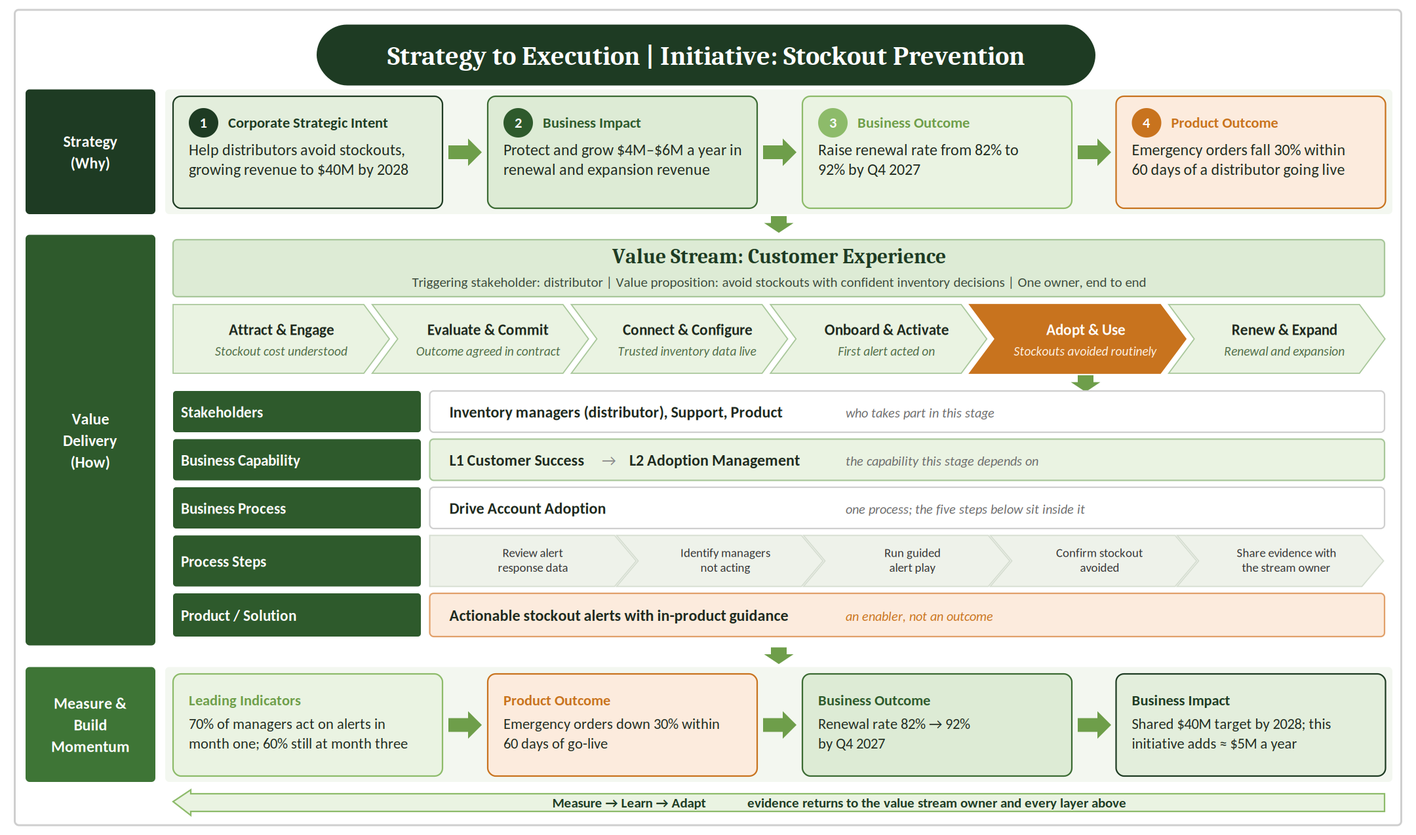
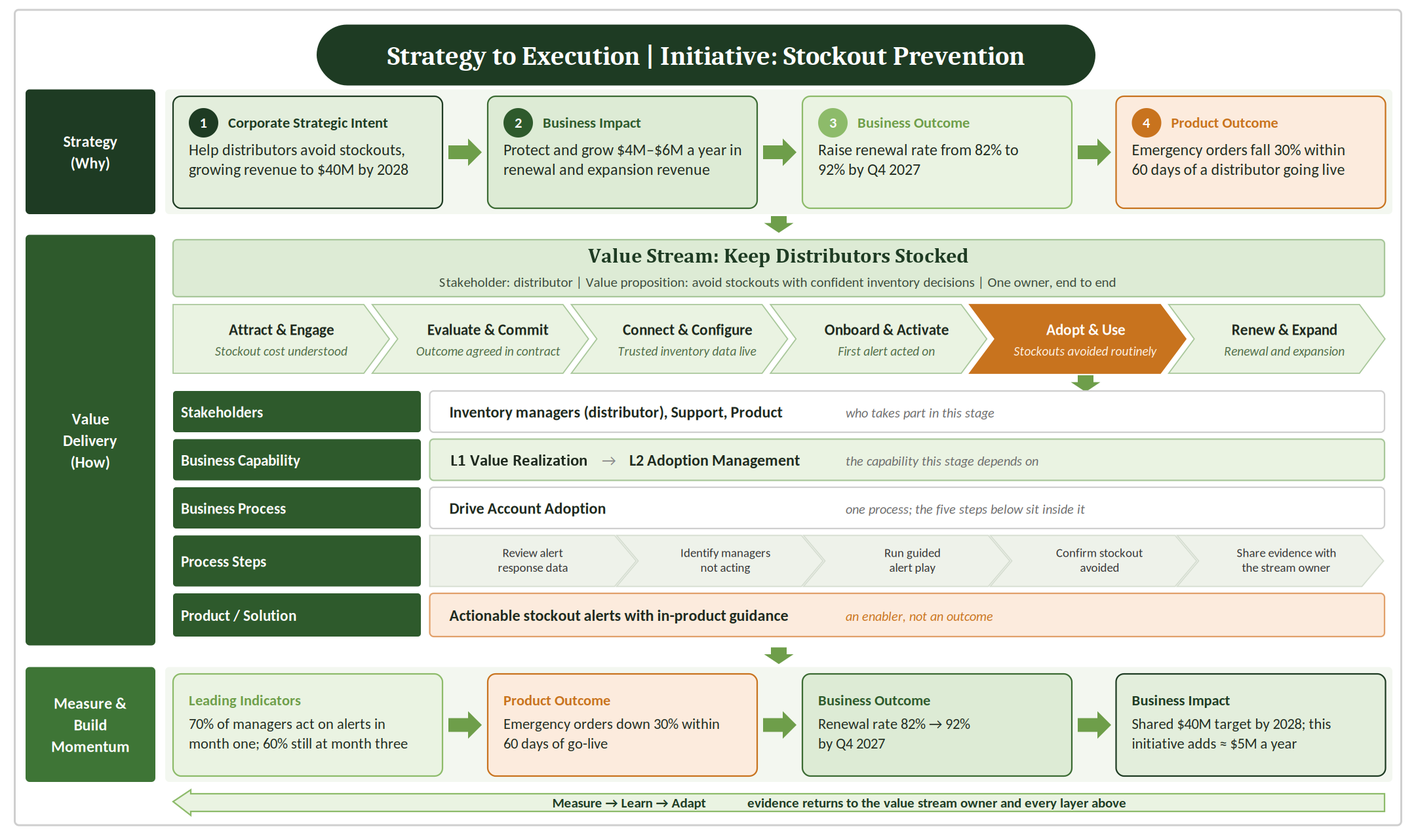
docs(iivcs): article 7's Experience signals, the stream rename, article 4 and 6 wording
Article 7: Experience (Feel) is now managers' stated trust in the alert
thresholds, asked at the monthly discovery visits (about one in four,
then seven in ten, against a starting band of 60%). The two behavioural
shares are kept as engagement signals read by AER. A governance
paragraph takes the redefined "acted on" back to the decision forum.
Template 7's worked example and the three-tests table follow.

Articles 4-7: the "Customer Experience" value stream is renamed "Keep
Distributors Stocked", in the text, article 4's LinkedIn copy and the
diagrams (the strategy-to-execution header in articles 4, 5 and 6; the
table subtitle in article 7).

Article 4: value stages and the business-architecture credit kept,
"value item" glossed, "functions" where departments were meant, Adoption
Management as the example capability, and the rejection condition split
from who decides, read by the end of Q1 2027. The diagram's band and
capability row follow. Article 6: nested ownership in one plain
sentence; the Team Topologies credit names stream-aligned teams.

Edits are silent, as published articles are corrected in place.

Changed region(s): [[0.2792, 0.2753, 0.8065, 0.3671], [0.3102, 0.5506, 0.4032, 0.5812]]

diff --git a/series/iivcs/04-one-continuous-value-stream/article.md b/series/iivcs/04-one-continuous-value-stream/article.md
@@ -21,13 +21,13 @@ If the leaks live between functions, better functions won't close them. Somethin
 
 ## What a value stream is
 
-In business architecture practice, a value stream is the end-to-end set of value-adding stages that creates an overall result for a stakeholder. It starts with a triggering stakeholder, the customer or other party whose need sets it in motion. Each stage adds an increment of value for that stakeholder, called a value item, and the value items build on one another until the stream delivers its value proposition.
+In business architecture practice, a value stream is the end-to-end set of value stages that creates an overall result for a stakeholder. It starts with the stakeholder whose need sets it in motion, the customer or another party. Each stage leaves that stakeholder measurably closer to the result, an increment business architects call a value item, and the value items build on one another until the stream delivers its value proposition.
 
 A value stream isn't a department, and it isn't a process. A department is defined by the work it does, and a process describes how internal work gets done. A value stream is defined by the value a stakeholder receives, and it draws on every capability that value depends on.
 
 A value stream also outlasts the initiatives that run through it. Initiatives come and go. The stream is the stable path they travel.
 
-The Insheights Integrated Value Creation System (IIVCS) adds two things to that definition. First, a return path: evidence of what the stakeholder actually experienced travels back along the stream, so it can change what happens next. The second is an owner. A stream that nobody owns can be mapped perfectly and still leak value at every handoff.
+The Insheights Integrated Value Creation System (IIVCS) asks two more things of it. First, a return path: evidence of what the stakeholder actually experienced travels back along the stream, so it can change what happens next. The second is an owner. A stream that nobody owns can be mapped perfectly and still leak value at every handoff.
 
 The difference sounds small. In practice, it changes the question every team asks. In a function-based model, the question is “Did we do our part?” In a value stream, the question is “Did the value reach the customer, and what’s stopping it?”
 
@@ -50,7 +50,7 @@ When renewals slipped, every function could show its own part had succeeded, and
 
 ## Stocklight, after
 
-Stocklight starts managing its Customer Experience value stream as one stream: the full path a distributor takes as its customer. The stream triggers when a distributor faces costly stockouts, and its value proposition is to avoid stockouts through confident inventory decisions. It runs through six value stages, each ending in a value item:
+Stocklight starts managing its Keep Distributors Stocked value stream as one stream: the full path a distributor takes as its customer. The stream triggers when a distributor faces costly stockouts, and its value proposition is to avoid stockouts through confident inventory decisions. It runs through six value stages, each ending in a value item:
 
 - **Attract & Engage**, ending when the cost of the distributor’s stockouts is understood
 - **Evaluate & Commit**, ending when the outcome is agreed in the contract
@@ -65,9 +65,9 @@ One leader owns the stream end to end. Stockout prevention becomes an initiative
 
 *Strategy sets the why, the value stream delivers the how, and measurement carries evidence back up to every layer.*
 
-The initiative focuses on Adopt & Use, the stage where the product outcome is realized and where the most value leaks. Inventory managers at the distributor take part, supported by Stocklight’s support and product teams. It depends on Stocklight’s customer success capability, specifically adoption management, and runs through one process: driving account adoption. The alerts themselves are the solution, an enabler of the outcome, not the outcome.
+The initiative focuses on Adopt & Use, the stage where the product outcome is realized and where the most value leaks. Inventory managers at the distributor take part, supported by Stocklight’s support and product teams. It depends on Stocklight’s value realization capability, specifically Adoption Management, and runs through one process: driving account adoption. The alerts themselves are the solution, an enabler of the outcome, not the outcome.
 
-People from product, sales, installation, and support all work in the stream. They still belong to their capabilities, which remain their home for expertise and standards. But they share the stream's measures: emergency orders falling, inventory managers acting on alerts, and distributors renewing.
+People from product, sales, installation, and support all work in the stream. They still belong to their functions, which remain their home for expertise and standards. But they share the stream's measures: emergency orders falling, inventory managers acting on alerts, and distributors renewing.
 
 Here’s how the stream closes each leak.
 
@@ -105,7 +105,7 @@ Stocklight’s 90-day onboarding spans two stages: Connect & Configure and Onboa
 
 *The leak: intent becomes misaligned or incomplete deliverables.*
 
-A value stream states its intent once as a chain of outcomes, and every capability works toward that chain instead of its own version. Deliverables are judged by what they contribute, not by whether they were completed.
+A value stream states its intent once as a chain of outcomes, and every function works toward that chain instead of its own version. Deliverables are judged by what they contribute, not by whether they were completed.
 
 At Stocklight, the forecasting module is no longer the goal. Emergency orders falling 30% is. Each layer explains the one below it: renewals rise because emergency orders fall, and emergency orders fall because inventory managers act on alerts. People question work that won’t move those numbers before it’s built, and they add missing work, like alerts, even though no one’s original plan included it.
 
@@ -125,7 +125,7 @@ Different industries, different eras, same principle: an outcome needs an owner,
 
 ## What ownership requires
 
-Naming an owner is easy. Ownership only works when it comes with authority across boundaries. An owner who can’t change priorities in the capabilities their outcome depends on has accountability without leverage. Often the function that feels the pain of a broken stream has the least authority to fix it, and that imbalance is exactly what ownership is meant to remove.
+Naming an owner is easy. Ownership only works when it comes with authority across boundaries. An owner who can’t change priorities in the functions their outcome depends on has accountability without leverage. Often the function that feels the pain of a broken stream has the least authority to fix it, and that imbalance is exactly what ownership is meant to remove.
 
 Ownership also changes how we handle failure. When one person owns an outcome, a miss becomes visible early, while it’s still a decision rather than a post-mortem. It’s much harder to call a failure an execution problem when the strategy and the execution have the same owner.
 
@@ -133,13 +133,13 @@ Ownership also changes how we handle failure. When one person owns an outcome, a
 
 State a value stream as clearly as a strategy. Here’s Stocklight’s:
 
-> *The **Customer Experience** value stream turns our intent to **help distributors avoid stockouts** into **fewer stockouts and confident inventory decisions** for **regional industrial distributors**, owned by **one accountable leader**, with **product, sales, installation, and support** contributing, measured by **emergency orders falling 30% within 60 days of go-live and renewal rate rising from 82% to 92% by Q4 2027**, and if **fewer than 70% of inventory managers act on our alerts in their first month**, **the stream owner** decides whether to persist, retune, re-resource, or stop.*
+> *The **Keep Distributors Stocked** value stream turns our intent to **help distributors avoid stockouts** into **fewer stockouts and confident inventory decisions** for **regional industrial distributors**, owned by **one accountable leader**, with **product, sales, installation, and support** contributing, measured by **emergency orders falling 30% within 60 days of go-live and renewal rate rising from 82% to 92% by Q4 2027**, and if **fewer than 70% of inventory managers act on our alerts in their first month, read by the end of Q1 2027**, **the stream owner** decides whether to persist, retune, re-resource, or stop.*
 
 **Template 4: the value stream statement.** And the template:
 
-> *The **[name]** value stream turns our intent to **[strategic intent]** into **[outcome]** for **[customers or stakeholders]**, owned by **[one accountable leader]**, with **[contributing capabilities]** contributing, measured by **[outcome measure and time frame]**, and if **[signal that we’re wrong, and by when]**, **[who decides]** decides whether to persist, retune, re-resource, or stop.*
+> *The **[name]** value stream turns our intent to **[strategic intent]** into **[outcome]** for **[customers or stakeholders]**, owned by **[one accountable leader]**, with **[contributing functions]** contributing, measured by **[outcome measure and time frame]**, and if **[signal that we’re wrong, and by when]**, **[who decides]** decides whether to persist, retune, re-resource, or stop.*
 
-The last clause is the stream’s rejection condition: the signal, named in advance, that the approach is wrong, and who decides what happens next.
+The last clause holds the stream’s rejection condition: the result, named in advance, that would show the approach is wrong, and the date by which it is read. It also names who decides what happens next.
 
 If you can’t name one owner, you’ve found your first problem.
 

diff --git a/series/iivcs/07-three-tests-of-real-value/article.md b/series/iivcs/07-three-tests-of-real-value/article.md
@@ -49,7 +49,7 @@ None of these shows up in the outcome’s measure. All three show up in the stak
 
 Stocklight, the illustrative company we’ve followed through this series, sells inventory visibility software to regional industrial distributors. Its strategy bets that inventory managers will act on alerts delivered inside the warehouse systems they already run, and it set a test with 10 distributors in Q1 2027 to find out.
 
-Three months into that test, the Customer Experience stream owner’s review looked good:
+Three months into that test, the Keep Distributors Stocked stream owner’s review looked good:
 
 > ***The bet:*** *78% of inventory managers acted on an alert in their first month, against a rejection condition of fewer than 70%*
 
@@ -57,17 +57,17 @@ Three months into that test, the Customer Experience stream owner’s review loo
 
 > ***Activation team:*** *time from signed contract to first alert acted on, down from 90 days to 41*
 
-The bet held, and every outcome moved in the right direction. The stream owner was ready to scale beyond the test.
+The bet held, and every outcome moved in the right direction. The stream owner was ready to recommend scaling beyond the test.
 
 Then the Adoption team ran its monthly discovery visits, and the inventory managers told a different story. Read against the three tests, every headline outcome came apart:
 
 → **Efficiency.** “Acted on” counted any acknowledgment of an alert. Inventory managers got 30 to 40 alerts a day, most for slow-moving items that weren’t at real risk. A typical manager spent more than an hour a day clearing them, and two distributors had assigned a second person just to keep up. Stocklight promised less work and delivered more.
 
-→ **Experience.** After a run of early false alarms, managers didn’t trust the thresholds, so most still checked their spreadsheet before placing an order. The share still acting on alerts in their third month was 54%, below the 60% target and falling. The value stream promised confident inventory decisions. Managers felt it was one more queue to watch.
+→ **Experience.** After a run of early false alarms, managers didn’t trust the thresholds: at the discovery visits, only about one in four said they did. What they did showed the same thing. Most still checked their spreadsheet before placing an order, and the share still acting on alerts in their third month was 54% and falling. The value stream promised confident inventory decisions. Managers felt it was one more queue to watch.
 
 → **Effectiveness.** Emergency orders were falling, but at three of the ten distributors the drop came from raising safety stock after the false alarms, not from acting on alerts earlier. Those distributors had fewer stockouts and more cash tied up in inventory. The outcome moved, but the problem the strategy diagnosed, that distributors act on inventory data too late, hadn’t changed.
 
-Every outcome passed. Every test failed. Had the stream owner scaled on that review, Stocklight would have rolled alert fatigue out to its whole customer base and found out when renewals came due, long after changing course was cheap.
+Every outcome passed. Every test failed. Had Stocklight scaled on that review, Stocklight would have rolled alert fatigue out to its whole customer base and found out when renewals came due, long after changing course was cheap.
 
 ## Stocklight, after
 
@@ -79,7 +79,7 @@ The fix sat inside the team’s own authority. The team outcome brief from the l
 
 → **Efficiency (Use):** alerts per manager per day, target under eight, and time spent on alerts, target under 15 minutes a day. Reviewed weekly.
 
-→ **Experience (Feel):** the share of managers who order from an alert without checking their spreadsheet first, and the share still acting in their third month, target 60%. Reviewed weekly, with monthly discovery visits.
+→ **Experience (Feel):** the share of managers who say they trust the alert thresholds, target 60% or more, a starting band set from the first visits. Asked at the monthly discovery visits. What managers then do, ordering straight from an alert and still acting in their third month, is behavior, not feeling: the [Adoption, Engagement, Retention (AER)](https://github.com/Insheights/in-frameworks/blob/master/aer.md) model reads it as engagement, and the next article picks it up.
 
 → **Effectiveness (Achieve):** emergency orders falling 30% within 60 days of go-live, with safety stock flat or lower. Reviewed monthly.
 
@@ -87,9 +87,11 @@ The last clause matters most. “With safety stock flat or lower” closes the w
 
 ![](images/02.png)
 
-Six weeks later, managers were getting about six alerts a day and clearing them in under 15 minutes. Most were ordering straight from the alert, and the share still acting in their third month had risen to 63%. Emergency orders were down 27% with safety stock flat. The headline outcome had moved less than the first review showed. All of it was now real.
+Six weeks later, managers were getting about six alerts a day and clearing them in under 15 minutes. Seven in ten said they now trusted the thresholds. Most were ordering straight from the alert, and the share still acting in their third month had risen to 63%. Emergency orders were down 27% with safety stock flat. The headline outcome had moved less than the first review showed. All of it was now real.
 
 The redefinition also reached the Activation team. Its time to first value went from 41 days to 52 overnight, because a first alert “acted on” now meant an order, not a click. Nothing about onboarding had changed. The measure had simply stopped flattering it, and the team now knew the real distance to its 30-day target.
+
+It reached the strategy too. “Acted on” was also the measure in the bet’s rejection condition: fewer than 70% of inventory managers acting on alerts in their first month. The bet had passed at 78% under the old definition, and that reading no longer counted. Changing what a rejection condition measures makes a new hypothesis, so the stream owner took it to the decision forum, where the executive team decides. The 78% run stayed in the decision log, marked as read on a flawed measure. The new definition went in as a new hypothesis, with the reason and a date to read it by, and the forum, not the team or the stream owner, decided whether to persist, retune, re-resource, or stop.
 
 The same tests apply at every link of the chain, not only at the team level. Revenue growth toward $40M that costs more to serve than it earns fails Efficiency. Renewals won with discounts from distributors who don’t trust the product fail Experience. The stream owner and leadership ask the same three questions about their outcomes as the teams do about theirs, but on a slower cadence.
 
@@ -115,7 +117,7 @@ The common lesson: a moved outcome tells you something changed. The stakeholder 
 
 Stocklight’s Adoption team:
 
-> *For emergency orders falling 30% within 60 days of go-live at the Adopt & Use stage, inventory managers can use it if alerts stay below eight a day and take less than 15 minutes to clear; they feel it if 70% order from an alert without checking a spreadsheet first and 60% still act on alerts in their third month; and they achieve it if emergency orders fall 30% within 60 days of go-live without safety stock rising. We read Use weekly, Feel weekly with monthly discovery visits, and Achieve monthly, in that order.*
+> *For emergency orders falling 30% within 60 days of go-live at the Adopt & Use stage, inventory managers can use it if alerts stay below eight a day and take less than 15 minutes to clear; they feel it if at least 60% say they trust the alert thresholds, a starting band set from the first visits’ baseline of about one in four; and they achieve it if emergency orders fall 30% within 60 days of go-live without safety stock rising. We read Use weekly, Feel at the monthly discovery visits, and Achieve monthly, in that order.*
 
 If you can’t fill in the “without” blank, you haven’t yet asked how your outcome could move without creating value. Someone on your team will eventually find out for you. In the Insheights Integrated Value Creation System (IIVCS), the [3E model](https://github.com/Insheights/in-frameworks/blob/master/3e.md) defines the three tests, and the [metrics and indicators guide](https://github.com/Insheights/in-frameworks/blob/master/metrics-and-indicators.md#part-5--thresholds-and-reference-bars) gives candidate signals for each and how to set their thresholds.
 

diff --git a/series/iivcs/06-outcomes-a-team-can-own/article.md b/series/iivcs/06-outcomes-a-team-can-own/article.md
@@ -39,7 +39,7 @@ That’s the core move. The strategy’s outcome chain isn’t divided by functi
 
 ## Stocklight, before
 
-Stocklight, the illustrative company we’ve followed through this series, sells inventory visibility software to regional industrial distributors. Its rewritten strategy was approved. The Customer Experience value stream had one accountable leader. Then came planning, and the old habits returned.
+Stocklight, the illustrative company we’ve followed through this series, sells inventory visibility software to regional industrial distributors. Its rewritten strategy was approved. The Keep Distributors Stocked value stream had one accountable leader. Then came planning, and the old habits returned.
 
 The stream owner’s first instinct was to break the strategy into work and hand it out:
 
@@ -75,7 +75,7 @@ The second time, the stream owner starts from what’s already written: the stra
 
 → **The bet:** inventory managers will act on alerts there. If fewer than 70% do in their first month of the Q1 2027 test with 10 distributors, the stream owner decides whether to persist, retune, re-resource, or stop
 
-→ **The stream:** the Customer Experience value stream, with one accountable leader, measured by emergency orders falling 30% within 60 days of go-live and renewals rising from 82% to 92% by Q4 2027
+→ **The stream:** the Keep Distributors Stocked value stream, with one accountable leader, measured by emergency orders falling 30% within 60 days of go-live and renewals rising from 82% to 92% by Q4 2027
 
 What’s new is only what happens below the stream owner. Instead of breaking these statements into functional assignments, the stream owner walks the outcome chain layer by layer and asks at each one: who could move this, and how fast would they know?
 
@@ -83,7 +83,7 @@ What’s new is only what happens below the stream owner. Instead of breaking th
 
 The top layers don’t change hands. Leadership owns the intent and the business impact it drives. The stream owner owns the business outcome and stays accountable for the product outcome, as the value stream statement says. What changes is the bottom of the chain. Instead of five functional assignments, two teams each take a link they can move and see moving within weeks, aligned to the value stages where that link is realized.
 
-Ownership here is nested, not divided. A team owning a link doesn’t take it away from the stream owner, who stays accountable for the whole chain and decides when the two teams’ needs collide.
+Ownership here is nested, not divided. Both teams work in the one stream: each owns the customer outcome at its own stages, and the stream owner owns the stream’s outcome. A team owning a link doesn’t take it away from the stream owner, who stays accountable for the whole chain and decides when the two teams’ needs collide.
 
 ![](images/02.png)
 
@@ -125,7 +125,7 @@ Practitioners from product management, software delivery, and military command h
 
 **Give teams problems, not features.** In *Escaping the Build Trap* (2018), Melissa Perri describes organizations that measure success by what they ship rather than by the value it creates, and stay busy without getting better. Marty Cagan makes the positive case in *Empowered* (2020): strong product teams are given problems to solve and held accountable for results, rather than handed a roadmap of features to deliver. The five expectations earlier in this article are what make that empowerment real rather than declared. Stocklight’s first plan was a build trap with good intentions. Its second gave each team a problem.
 
-**Align teams to a stream, not a function.** In *Team Topologies* (2019), Matthew Skelton and Manuel Pais describe the stream-aligned team: a team aligned to a single flow of work, with the skills to deliver value in that flow without handing work off to other teams. They also argue that a team’s scope should fit what it can hold in mind at once. Both ideas explain why Stocklight’s teams map to value stages rather than to departments, and why each owns one outcome rather than five.
+**Align teams to a stream, not a function.** In *Team Topologies* (2019), Matthew Skelton and Manuel Pais describe the stream-aligned team: a team aligned to a single flow of work, with the skills to deliver value in that flow without handing work off to other teams. They also argue that a team’s scope should fit what it can hold in mind at once. Both ideas explain why Stocklight’s two teams are aligned to the one stream, each working at its own stages rather than in a department, and why each owns one outcome rather than five.
 
 **Check the translation before the work starts.** In *The Art of Action* (2011), Stephen Bungay describes backbriefing: after receiving an intent, the people who will act on it brief back what they understood, what they plan to do, and what they need. Gaps in the translation surface before they become gaps in execution. Hoshin kanri, the strategy deployment practice associated with Toyota, uses a similar loop called catchball, in which targets are passed back and forth between levels until both sides agree they’re right and achievable. In both, teams negotiate the outcome they own, not just receive it.
 
@@ -139,11 +139,11 @@ Practitioners from product management, software delivery, and military command h
 
 Stocklight’s Adoption team:
 
-> *The Adoption team owns inventory managers acting on alerts before stockouts happen at the Adopt & Use stage of the Customer Experience value stream, moving emergency orders down 30% within 60 days of go-live, which feeds the renewal rate rising from 82% to 92% by Q4 2027. We’ll know within four weeks from the share of inventory managers acting on an alert in their first month, with a target of 70%. We decide alert thresholds, timing, wording, and where alerts appear, within delivering alerts inside the warehouse systems distributors already run rather than a new dashboard, and we’ll bring evidence to the Customer Experience stream owner if fewer than 70% of inventory managers act on our alerts in their first month.*
+> *The Adoption team owns inventory managers acting on alerts before stockouts happen at the Adopt & Use stage of the Keep Distributors Stocked value stream, moving emergency orders down 30% within 60 days of go-live, which feeds the renewal rate rising from 82% to 92% by Q4 2027. We’ll know within four weeks from the share of inventory managers acting on an alert in their first month, with a target of 70%. We decide alert thresholds, timing, wording, and where alerts appear, within delivering alerts inside the warehouse systems distributors already run rather than a new dashboard, and we’ll bring evidence to the Keep Distributors Stocked stream owner if fewer than 70% of inventory managers act on our alerts in their first month.*
 
 Stocklight’s Activation team:
 
-> *The Activation team owns distributors reaching first value at the Connect & Configure and Onboard & Activate stages of the Customer Experience value stream, moving time from signed contract to first alert acted on from 90 days to 30 by Q4 2027, which feeds emergency orders falling 30% within 60 days of go-live. We’ll know within two weeks of each signing from days until trusted inventory data is live. We decide how installation and training are sequenced and which warehouse systems to connect first, within moving data platform work forward only where onboarding depends on it, and we’ll bring evidence to the Customer Experience stream owner if more than one in five new distributors needs a custom integration.*
+> *The Activation team owns distributors reaching first value at the Connect & Configure and Onboard & Activate stages of the Keep Distributors Stocked value stream, moving time from signed contract to first alert acted on from 90 days to 30 by Q4 2027, which feeds emergency orders falling 30% within 60 days of go-live. We’ll know within two weeks of each signing from days until trusted inventory data is live. We decide how installation and training are sequenced and which warehouse systems to connect first, within moving data platform work forward only where onboarding depends on it, and we’ll bring evidence to the Keep Distributors Stocked stream owner if more than one in five new distributors needs a custom integration.*
 
 If you can’t fill in the “we decide” blank with something real, the team doesn’t own an outcome. It owns a task list with a number attached.
 

diff --git a/series/iivcs/05-strategies-that-can-be-executed/article.md b/series/iivcs/05-strategies-that-can-be-executed/article.md
@@ -33,7 +33,7 @@ Put simply, a strategy is executable when it tells people what to decide, not ju
 
 ## Stocklight, before
 
-Stocklight, the illustrative company we’ve followed through this series, sells inventory visibility software to regional industrial distributors. In the last article, it organized around one value stream, Customer Experience, owned end to end. But go back to the strategy document that started the year, and the problem begins earlier.
+Stocklight, the illustrative company we’ve followed through this series, sells inventory visibility software to regional industrial distributors. In the last article, it organized around one value stream, Keep Distributors Stocked, owned end to end. But go back to the strategy document that started the year, and the problem begins earlier.
 
 The document read like most strategy documents do:
 
@@ -124,7 +124,7 @@ That last sentence is the bet’s rejection condition, and it matters as much as
 
 Each strategic intent needs one accountable owner and a value stream it travels through. If you can’t assign an intent to a stream, it’s either too vague to own, or it’s really several intents bundled together.
 
-Stocklight’s rewrite: *The Customer Experience value stream owns this intent. Its owner is accountable for the outcome chain above, with product, sales, installation, and support contributing.*
+Stocklight’s rewrite: *The Keep Distributors Stocked value stream owns this intent. Its owner is accountable for the outcome chain above, with product, sales, installation, and support contributing.*
 
 This is where the strategy meets the anchor diagram from the last article: the intent sits at the top, travels through the stream’s stages, and is realized at Adopt & Use, when an inventory manager acts on an alert.
 
@@ -136,7 +136,7 @@ Put together, Stocklight’s strategy is four statements. It starts with the str
 
 > ***Transformation:*** *By Q4 2027, we will move from onboarding customers through separate sales, installation, and support teams to onboarding each distributor through a single customer success team, so that distributors can go from signed contract to live inventory data without being passed between departments, measured by onboarding time falling from 90 days to 30.*
 
-> ***Value stream:*** *The Customer Experience value stream turns our intent to help distributors avoid stockouts into fewer stockouts and confident inventory decisions for regional industrial distributors, owned by one accountable leader, with product, sales, installation, and support contributing, measured by emergency orders falling 30% within 60 days of go-live and renewal rate rising from 82% to 92% by Q4 2027, and if fewer than 70% of inventory managers act on our alerts in their first month, the stream owner decides whether to persist, retune, re-resource, or stop.*
+> ***Value stream:*** *The Keep Distributors Stocked value stream turns our intent to help distributors avoid stockouts into fewer stockouts and confident inventory decisions for regional industrial distributors, owned by one accountable leader, with product, sales, installation, and support contributing, measured by emergency orders falling 30% within 60 days of go-live and renewal rate rising from 82% to 92% by Q4 2027, and if fewer than 70% of inventory managers act on our alerts in their first month, the stream owner decides whether to persist, retune, re-resource, or stop.*
 
 > ***Value delivery:*** *Distributor inventory managers will reduce stockouts using real-time inventory visibility within 60 days of going live, and we will know because emergency orders at their warehouses fall.*
 
@@ -170,7 +170,7 @@ Earlier in the series, we treated strategy as a set of bets. The templates below
 
 Stocklight’s one-page version:
 
-> *Regional industrial distributors can’t avoid stockouts today because their inventory managers see demand changes too late to act, and onboarding takes 90 days. By Q4 2027, we will deliver alerts inside the warehouse systems they already run rather than building a new dashboard, and move from onboarding through separate sales, installation, and support teams to onboarding each distributor through a single customer success team. We’ll know it’s working when onboarding falls from 90 days to 30 and emergency orders fall 30% within 60 days of go-live, leading to renewals rising from 82% to 92% by Q4 2027 and revenue from distributors reaching $40M by 2028. We will defer expansion beyond our current regions until the renewal rate reaches 88%. We’re betting inventory managers will act on alerts in the warehouse systems they already run, and if fewer than 70% act on our alerts in their first month, the stream owner decides whether to persist, retune, re-resource, or stop. One accountable leader owns it through the Customer Experience value stream.*
+> *Regional industrial distributors can’t avoid stockouts today because their inventory managers see demand changes too late to act, and onboarding takes 90 days. By Q4 2027, we will deliver alerts inside the warehouse systems they already run rather than building a new dashboard, and move from onboarding through separate sales, installation, and support teams to onboarding each distributor through a single customer success team. We’ll know it’s working when onboarding falls from 90 days to 30 and emergency orders fall 30% within 60 days of go-live, leading to renewals rising from 82% to 92% by Q4 2027 and revenue from distributors reaching $40M by 2028. We will defer expansion beyond our current regions until the renewal rate reaches 88%. We’re betting inventory managers will act on alerts in the warehouse systems they already run, and if fewer than 70% act on our alerts in their first month, the stream owner decides whether to persist, retune, re-resource, or stop. One accountable leader owns it through the Keep Distributors Stocked value stream.*
 
 Whichever you use, if you can’t fill in the “rather than” or the “defer” blanks, you haven’t made a choice yet. In the Insheights Integrated Value Creation System (IIVCS), this is the work of the Organization Strategy Model (OSM). Its [practitioner guide](https://github.com/Insheights/in-frameworks/blob/master/guides/osm-practitioners-guide.md) covers the [One-Page Strategy](https://github.com/Insheights/in-frameworks/blob/master/guides/osm-practitioners-guide.md#step-2--make-the-strategic-choices) and the [Priority Register](https://github.com/Insheights/in-frameworks/blob/master/guides/osm-practitioners-guide.md#step-3--set-and-rank-strategic-value-priorities), where each bet is recorded with its rejection condition.
 

diff --git a/series/iivcs/04-one-continuous-value-stream/linkedin.md b/series/iivcs/04-one-continuous-value-stream/linkedin.md
@@ -24,7 +24,7 @@ A value stream is the end-to-end set of stages that creates value for a stakehol
 
 Take Stocklight, an illustrative company that sells inventory software to industrial distributors. Its intent: help distributors avoid stockouts. A year in, the forecasting module had shipped on time, onboarding still took 90 days, few inventory managers used the forecasts, and renewals slipped. Every team hit its targets. The outcome had no owner.
 
-So Stocklight starts managing its Customer Experience value stream as one stream, with one owner: Attract & Engage → Evaluate & Commit → Connect & Configure → Onboard & Activate → Adopt & Use → Renew & Expand.
+So Stocklight starts managing its Keep Distributors Stocked value stream as one stream, with one owner: Attract & Engage → Evaluate & Commit → Connect & Configure → Onboard & Activate → Adopt & Use → Renew & Expand.
 
 Its stockout-prevention initiative runs through that stream with a chain of targets: $40M distributor revenue by 2028, renewal rate up from 82% to 92% by Q4 2027, and emergency orders down 30% within 60 days of go-live.
 
